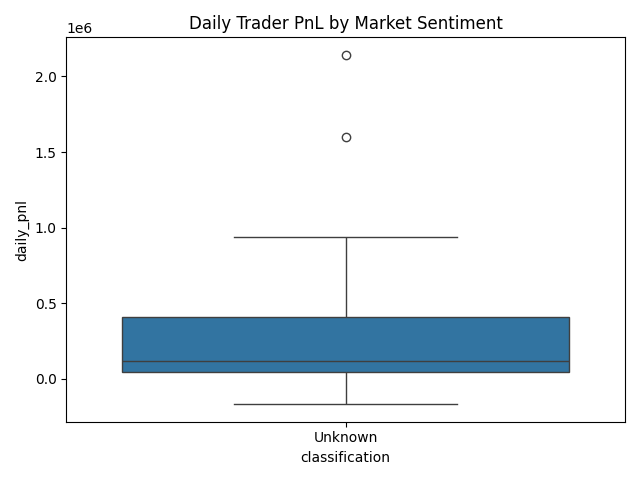
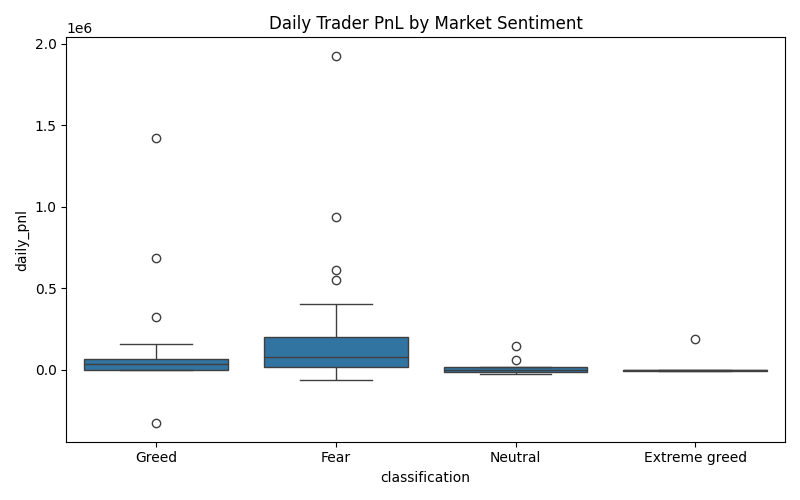
Fix sentiment alignment and Fear vs Greed analysis

diff --git a/analysis.py b/analysis.py
@@ -2,28 +2,24 @@ import pandas as pd
 import matplotlib.pyplot as plt
 import seaborn as sns
 
-# =========================
-# LOAD DATA
-# =========================
+# ---------------------------
+# Load datasets
+# ---------------------------
 sentiment = pd.read_csv("fear_greed.csv")
 trades = pd.read_csv("hyperliquid_trades.csv")
 
 print("Sentiment shape:", sentiment.shape)
 print("Trades shape:", trades.shape)
 
-# =========================
-# BASIC DATA CHECKS
-# =========================
-print("\nMissing values in trades:")
-print(trades.isna().sum())
-
-print("\nDuplicate rows in trades:", trades.duplicated().sum())
-
-# =========================
-# DATE PROCESSING
-# =========================
+# ---------------------------
+# Clean & align sentiment data
+# ---------------------------
 sentiment['date'] = pd.to_datetime(sentiment['date']).dt.date
+sentiment['classification'] = sentiment['classification'].str.capitalize()
 
+# ---------------------------
+# Clean & align trades data
+# ---------------------------
 trades = trades.rename(columns={
     'Account': 'account',
     'Side': 'side',
@@ -32,26 +28,26 @@ trades = trades.rename(columns={
     'Timestamp': 'timestamp'
 })
 
-trades['date'] = pd.to_datetime(trades['timestamp']).dt.date
+trades['date'] = pd.to_datetime(trades['timestamp'], unit='ms').dt.date
 
-# =========================
-# MERGE (LEFT JOIN ON PURPOSE)
-# =========================
+# ---------------------------
+# Merge on date
+# ---------------------------
 merged = trades.merge(
     sentiment[['date', 'classification']],
     on='date',
     how='left'
 )
 
-merged['classification'] = merged['classification'].fillna('Unknown')
-
 print("\nMerged shape:", merged.shape)
 print("\nSentiment distribution after merge:")
-print(merged['classification'].value_counts())
+print(merged['classification'].value_counts(dropna=False))
 
-# =========================
-# DAILY TRADER METRICS
-# =========================
+merged['classification'] = merged['classification'].fillna('Unknown')
+
+# ---------------------------
+# Daily metrics
+# ---------------------------
 daily_metrics = (
     merged
     .groupby(['account', 'date', 'classification'])
@@ -66,13 +62,12 @@ daily_metrics = (
 )
 
 daily_metrics['long_short_ratio'] = (
-    daily_metrics['long_trades'] /
-    (daily_metrics['short_trades'] + 1)
+    daily_metrics['long_trades'] / (daily_metrics['short_trades'] + 1)
 )
 
-# =========================
-# AGGREGATE ANALYSIS
-# =========================
+# ---------------------------
+# Analysis outputs
+# ---------------------------
 print("\nMean PnL by sentiment:")
 print(daily_metrics.groupby('classification')['daily_pnl'].mean())
 
@@ -83,42 +78,22 @@ print(
     .mean()
 )
 
-# =========================
-# TRADER SEGMENTATION
-# =========================
-if not daily_metrics.empty:
-    daily_metrics['freq_segment'] = pd.qcut(
-        daily_metrics['trades_count'],
-        q=2,
-        labels=['Infrequent', 'Frequent']
-    )
-
-    daily_metrics['performance_segment'] = daily_metrics['daily_pnl'].apply(
-        lambda x: 'Winner' if x > 0 else 'Loser'
-    )
-
-    print("\nPerformance by frequency segment:")
-    print(
-        daily_metrics
-        .groupby(['classification', 'freq_segment'])['daily_pnl']
-        .mean()
-    )
-
-# =========================
-# VISUALIZATION
-# =========================
+# ---------------------------
+# Visualization
+# ---------------------------
+plt.figure(figsize=(8,5))
 sns.boxplot(
     x='classification',
     y='daily_pnl',
-    data=daily_metrics
+    data=daily_metrics[daily_metrics['classification'] != 'Unknown']
 )
 plt.title("Daily Trader PnL by Market Sentiment")
 plt.tight_layout()
 plt.savefig("pnl_by_sentiment.png")
-plt.close()
+plt.show()
 
-# =========================
-# SAVE OUTPUT
-# =========================
+# ---------------------------
+# Save output
+# ---------------------------
 daily_metrics.to_csv("daily_trader_metrics.csv", index=False)
-print("\nSaved daily_trader_metrics.csv and pnl_by_sentiment.png")
+print("\nSaved daily_trader_metrics.csv")
